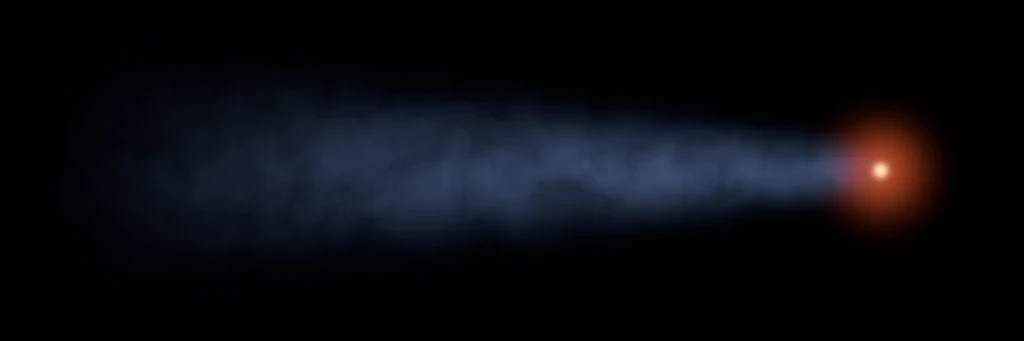
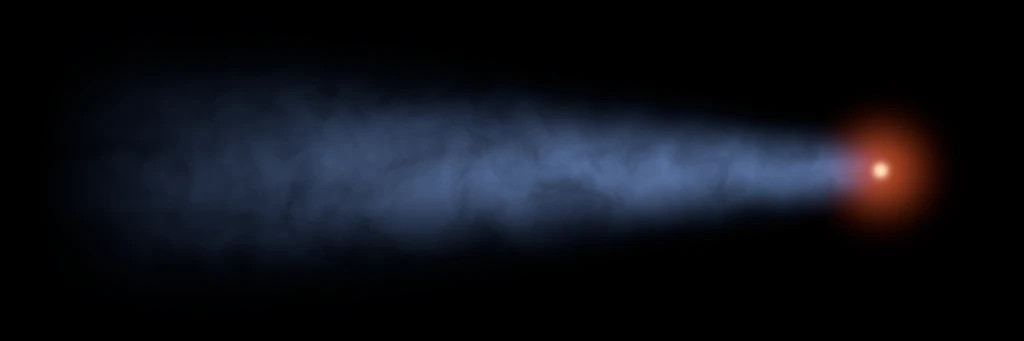
fix(cosmos): Brighten Mira's blue tail.

Changed region(s): [[0.2188, 0.3226, 0.8438, 0.6745], [0.2188, 0.5865, 0.25, 0.6158]]

diff --git a/src/lib/cosmos/nebulae.ts b/src/lib/cosmos/nebulae.ts
@@ -292,7 +292,7 @@ export const DEEP_SKY: DeepSkyObject[] = [
 				.mul(smoothstep(-0.95, 0.4, p.x))
 				.mul(oneMinus(smoothstep(0.6, 0.75, p.x)))
 				.mul(gas(p.mul(vec2(3, 1)), 3, 71).mul(0.6).add(0.4));
-			return color('#ffe1b8').mul(core).add(color('#ff6a3a').mul(halo.mul(0.45))).add(color('#8fb6ff').mul(tail.mul(0.18)));
+			return color('#ffe1b8').mul(core).add(color('#ff6a3a').mul(halo.mul(0.45))).add(color('#8fb6ff').mul(tail.mul(0.4)));
 		},
 		id: 'mira',
 		magnitude: 0.5,
